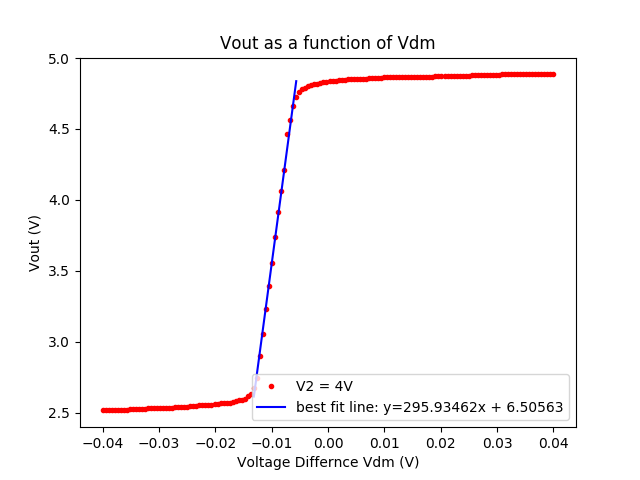
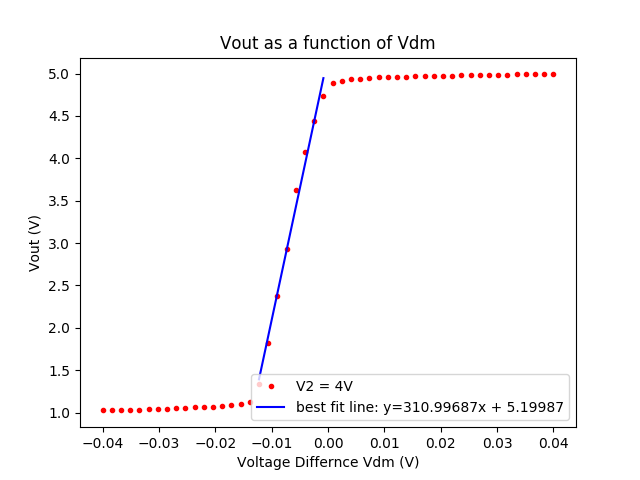
done with exp 2

diff --git a/lab 8/exp2/exp2_plot3.py b/lab 8/exp2/exp2_plot3.py
@@ -6,9 +6,9 @@ from scipy import stats
 from numpy import *
 
 # Importing Data
-Iout = open('finally/Iout.txt', 'r').read().split() # Iout
+Iout = open('finallyx3/Iout.txt', 'r').read().split() # Iout
 
-Vdm = open('finally/Vdm.txt', 'r').read().split() # Vdm
+Vdm = open('finallyx3/Vdm.txt', 'r').read().split() # Vdm
 
 lineariout = []
 linearvdm = []
@@ -16,7 +16,7 @@ linearvdm = []
 for i, x in enumerate(Iout):
     Iout[i] = -1*float(Iout[i])*1e6
     Vdm[i] = float(Vdm[i])
-    if Vdm[i] > -.05 and Vdm[i] < .05:
+    if Vdm[i] > -.045 and Vdm[i] < .03:
         lineariout.append(Iout[i])
         linearvdm.append(Vdm[i])
 
@@ -34,7 +34,7 @@ if __name__ == "__main__":
     yLabel = "Iout (micro amps)"
     xLabel = "Vdm (V)"
 
-    Data1 = plt.plot(Vdm, Iout, 'ro', markersize=3, label="Vout=3.5V")
+    Data1 = plt.plot(Vdm, Iout, 'ro', markersize=3, label="Vout=3.35V")
     Data = plt.plot(linearvdm, (slope*linearvdm)+intercept, 'b', label="best fit line: y="+str(round(slope,5))+"x + " +str(round(intercept,5)))
 
     plt.xlabel(xLabel)

diff --git a/lab 8/exp2/exp2_plot2.py b/lab 8/exp2/exp2_plot2.py
@@ -6,9 +6,9 @@ from scipy import stats
 from numpy import *
 
 # Importing Data
-Iout = open('vdm=0/Iout.txt', 'r').read().split() # Iout
+Iout = open('vdm=0x2/Iout.txt', 'r').read().split() # Iout
 
-Vout = open('vdm=0/Vout.txt', 'r').read().split() # Vout
+Vout = open('vdm=0x2/Vout.txt', 'r').read().split() # Vout
 
 lineariout = []
 linearvout = []
@@ -16,7 +16,7 @@ linearvout = []
 for i, x in enumerate(Iout):
     Iout[i] = float(Iout[i])*1e6
     Vout[i] = float(Vout[i])
-    if Vout[i] > 2.4 and Vout[i] < 4.9:
+    if Vout[i] > 1.16 and Vout[i] < 4.9:
         lineariout.append(Iout[i])
         linearvout.append(Vout[i])
 
@@ -24,6 +24,7 @@ slope, intercept, r_value, p_value, std_err = stats.linregress(linearvout, linea
 linearvout = np.array(linearvout)
 
 resistance = slope / 1000000
+print(1/slope)
 resistance = 1/resistance
 print(resistance)
 

diff --git a/lab 8/exp2/exp2_plot1.py b/lab 8/exp2/exp2_plot1.py
@@ -6,9 +6,9 @@ from scipy import stats
 from numpy import *
 
 # Importing Data
-Vdm = open('high-gain/Vdm.txt', 'r').read().split() # Vdm
+Vdm = open('high-gainx2/Vdm.txt', 'r').read().split() # Vdm
 
-Vout = open('high-gain/Vout.txt', 'r').read().split() # Vout
+Vout = open('high-gainx2/Vout.txt', 'r').read().split() # Vout
 
 linearvdm = []
 linearvout = []
@@ -16,7 +16,7 @@ linearvout = []
 for i, x in enumerate(Vdm):
     Vdm[i] = float(Vdm[i])
     Vout[i] = float(Vout[i])
-    if Vdm[i] > -.0135 and Vdm[i] < -.0055:
+    if Vdm[i] > -.0135 and Vdm[i] < -.0001:
         linearvdm.append(Vdm[i])
         linearvout.append(Vout[i])
 
